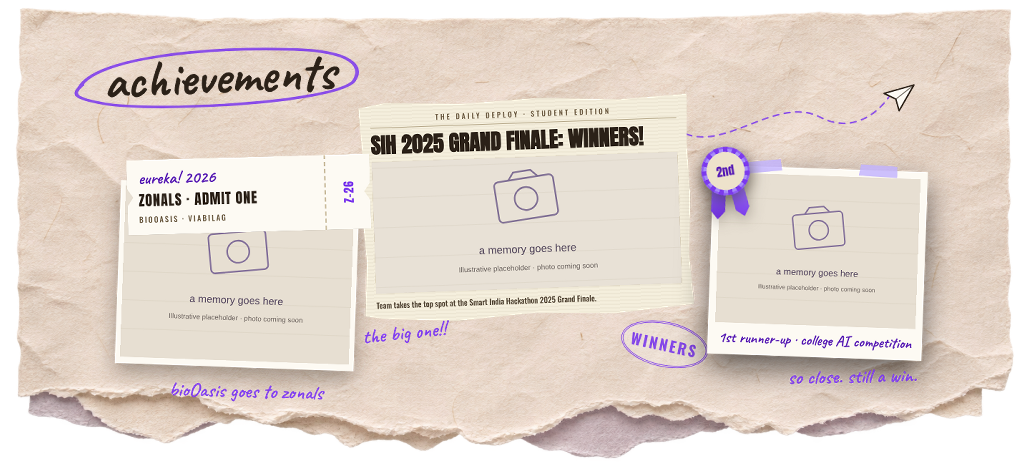
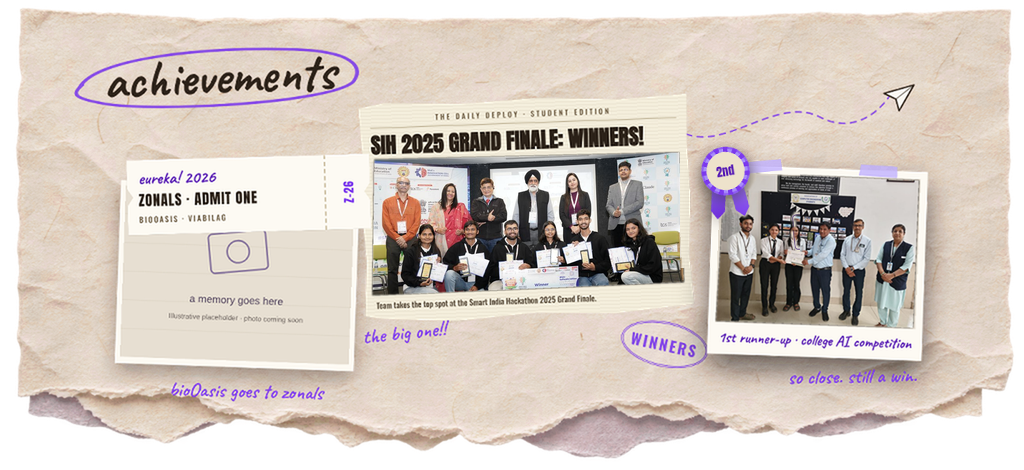
Add real SIH and AI competition photos inside achievement frames

diff --git a/index.html b/index.html
@@ -577,7 +577,7 @@
                     <div class="clip-paper">
                         <div class="clip-masthead">the daily deploy &middot; student edition</div>
                         <h4 class="clip-headline">SIH 2025 GRAND FINALE: WINNERS!</h4>
-                        <div class="clip-photo"><img src="assets/achievements/sih-2025.svg" alt="Illustrative photo placeholder for SIH 2025" loading="lazy"></div>
+                        <div class="clip-photo"><img src="assets/achievements/sih-2025.jpg" alt="Team Graviton with the SIH 2025 Grand Finale winner certificates" loading="lazy"></div>
                         <p class="clip-col">Team takes the top spot at the Smart India Hackathon 2025 Grand Finale.</p>
                     </div>
                     <span class="stamp-win">WINNERS</span>
@@ -586,7 +586,7 @@
                 <article class="win-ribbon">
                     <span class="frame-note note-ai">so close. still a win.</span>
                     <div class="ribbon-frame">
-                        <div class="ribbon-photo"><img src="assets/achievements/ai-competition.svg" alt="Illustrative photo placeholder for the AI competition" loading="lazy"></div>
+                        <div class="ribbon-photo"><img src="assets/achievements/ai-competition.jpg" alt="ViabilAg receiving the 2nd Rank certificate at the college AI Project Competition" loading="lazy"></div>
                         <div class="ribbon-award">
                             <span class="ribbon-tail tail-l"></span>
                             <span class="ribbon-tail tail-r"></span>

diff --git a/style.css b/style.css
@@ -4843,10 +4843,10 @@ html {
  .clip-paper {padding:10px 12px;}
  .clip-masthead {font-size:7px;}
  .clip-headline {font-size:16px;line-height:1.2;}
- .clip-photo {height:100px;overflow:hidden;}
- .clip-photo img {height:100%;object-fit:cover;}
+ .clip-photo {height:auto;aspect-ratio:800/271;overflow:hidden;}
+ .clip-photo img {height:auto;object-fit:cover;}
  .clip-col {font-size:9px;line-height:1.3;}
- .stamp-win {font-size:12px;right:-6px;bottom:-20px;padding:8px;letter-spacing:1px;}
+ .stamp-win {font-size:12px;right:-2px;bottom:-36px;padding:8px;letter-spacing:1px;}
  .win-ribbon {right:3%;top:52%;width:43%;}
  .ribbon-frame {padding:7px;}
  .ribbon-award {transform:rotate(-9deg) scale(.58);transform-origin:top left;left:-12px;top:-15px;}
